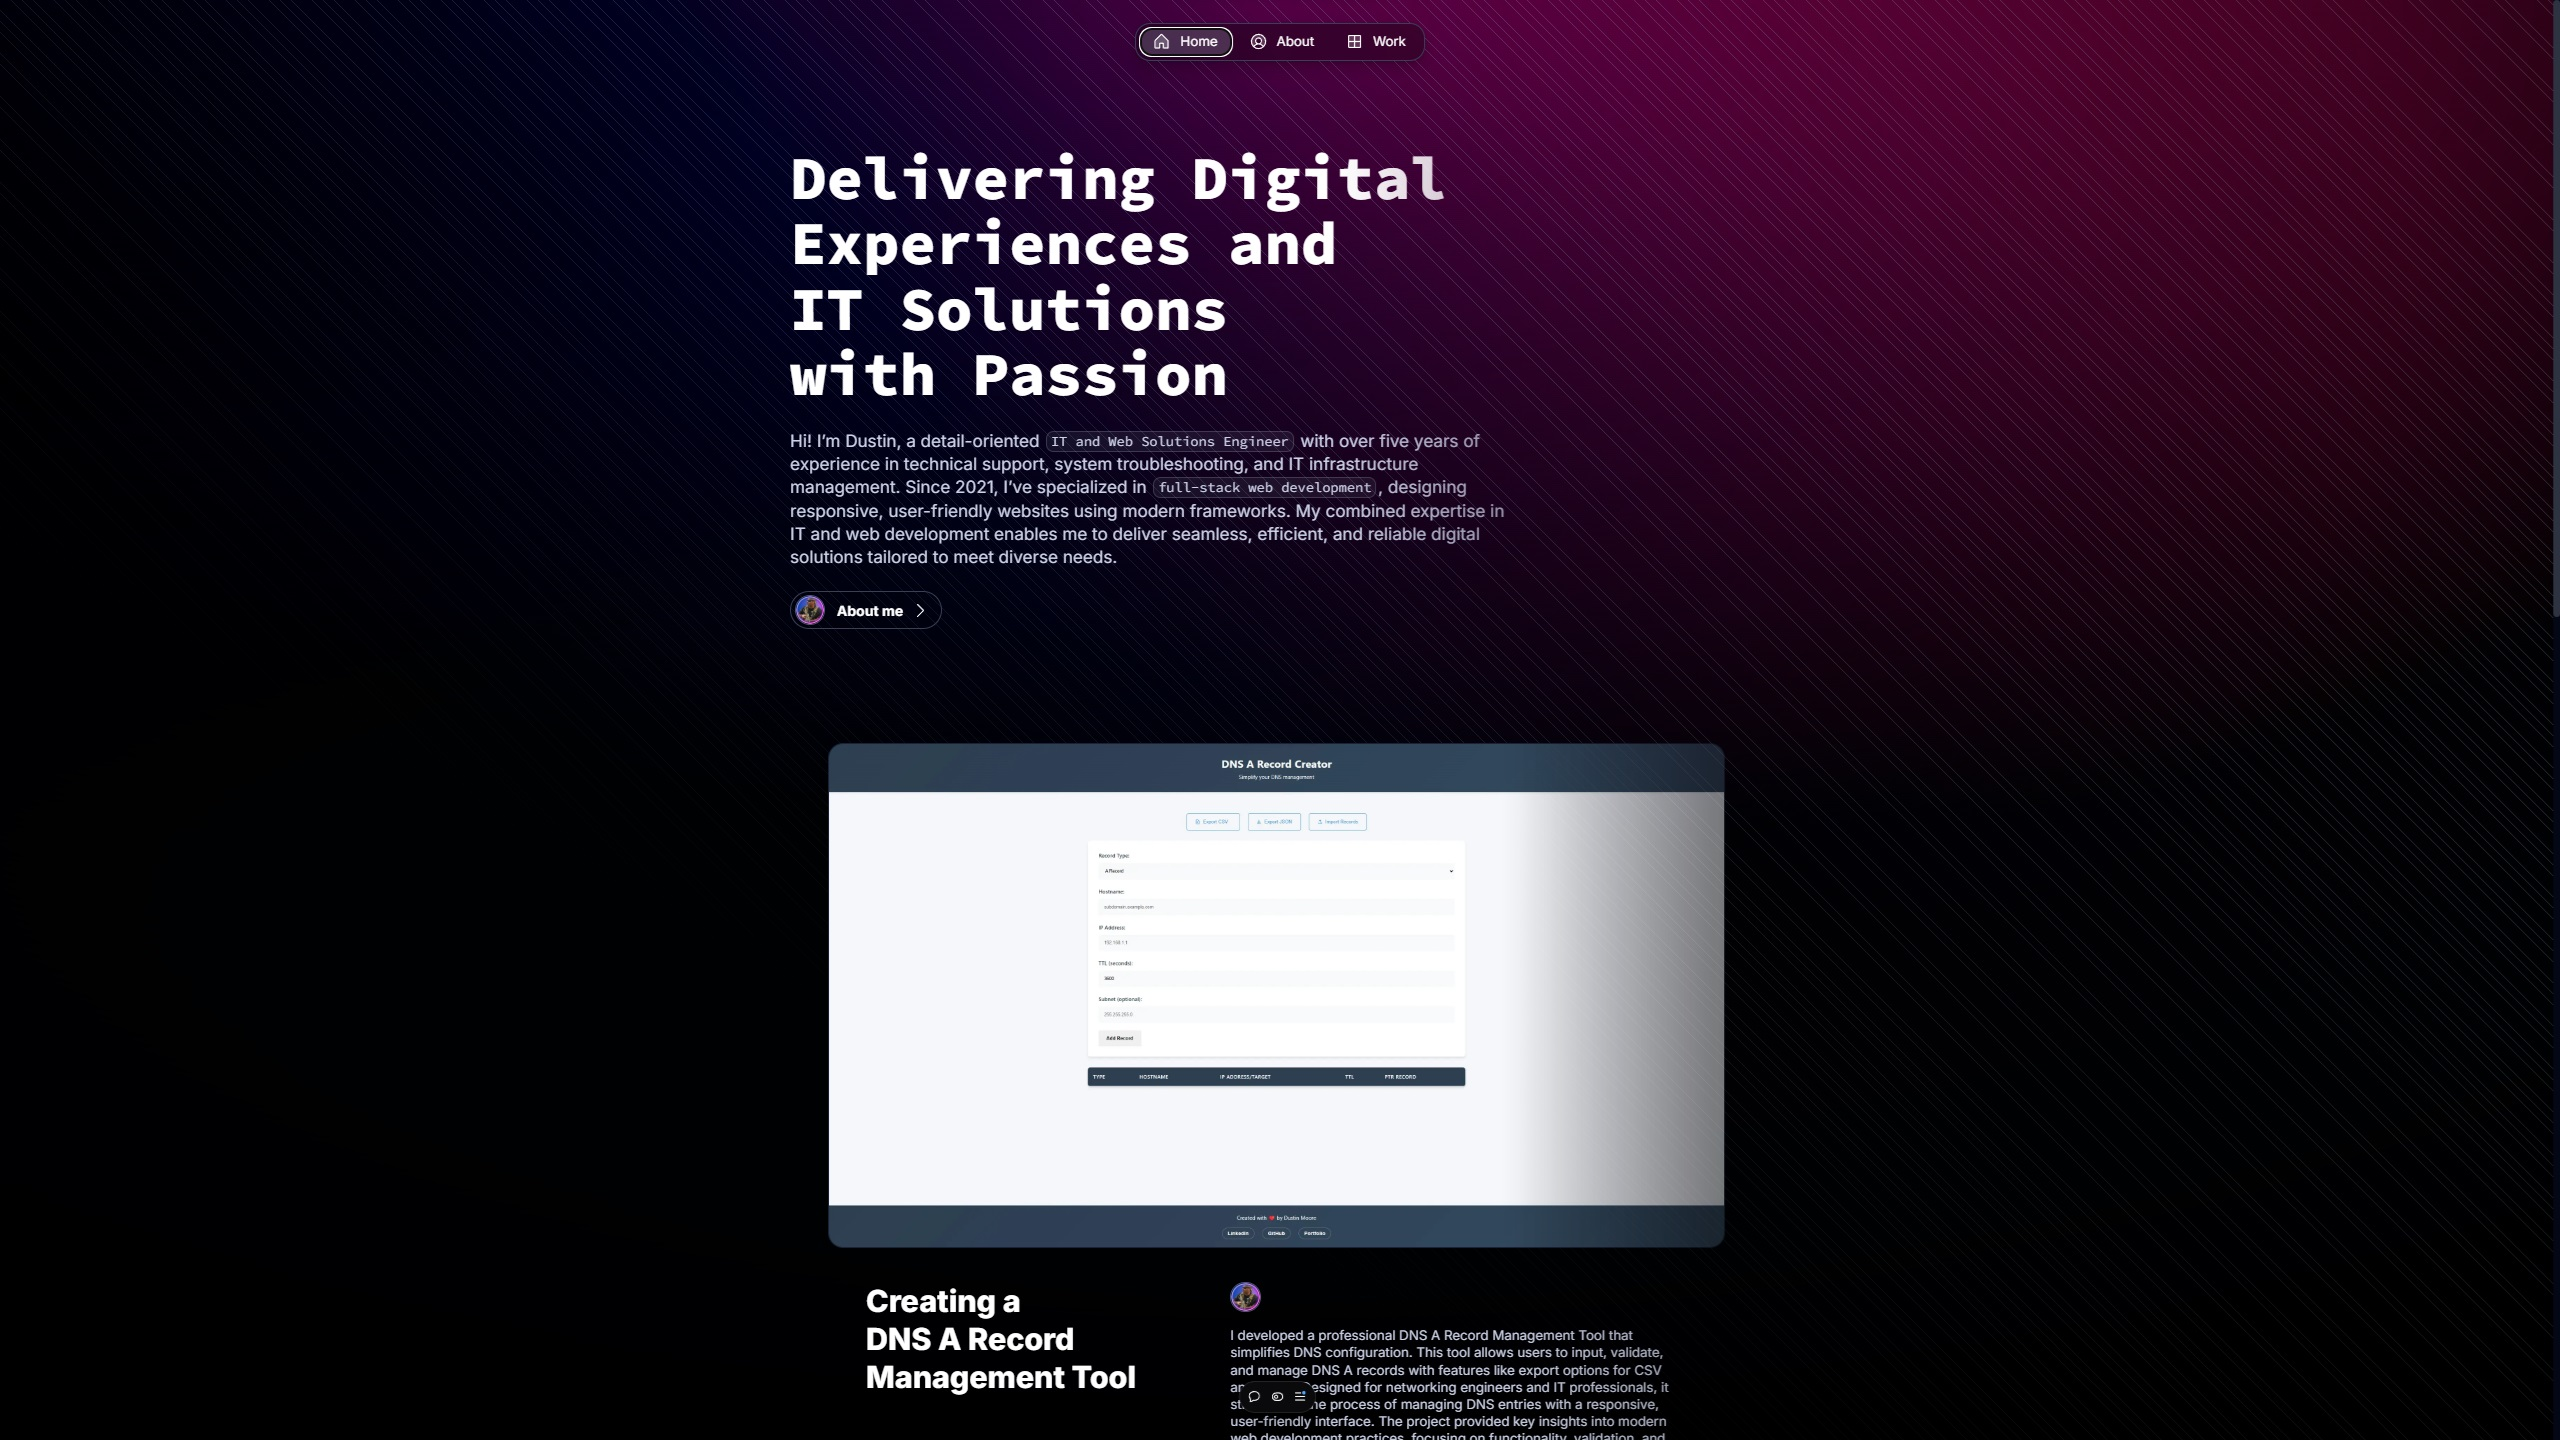
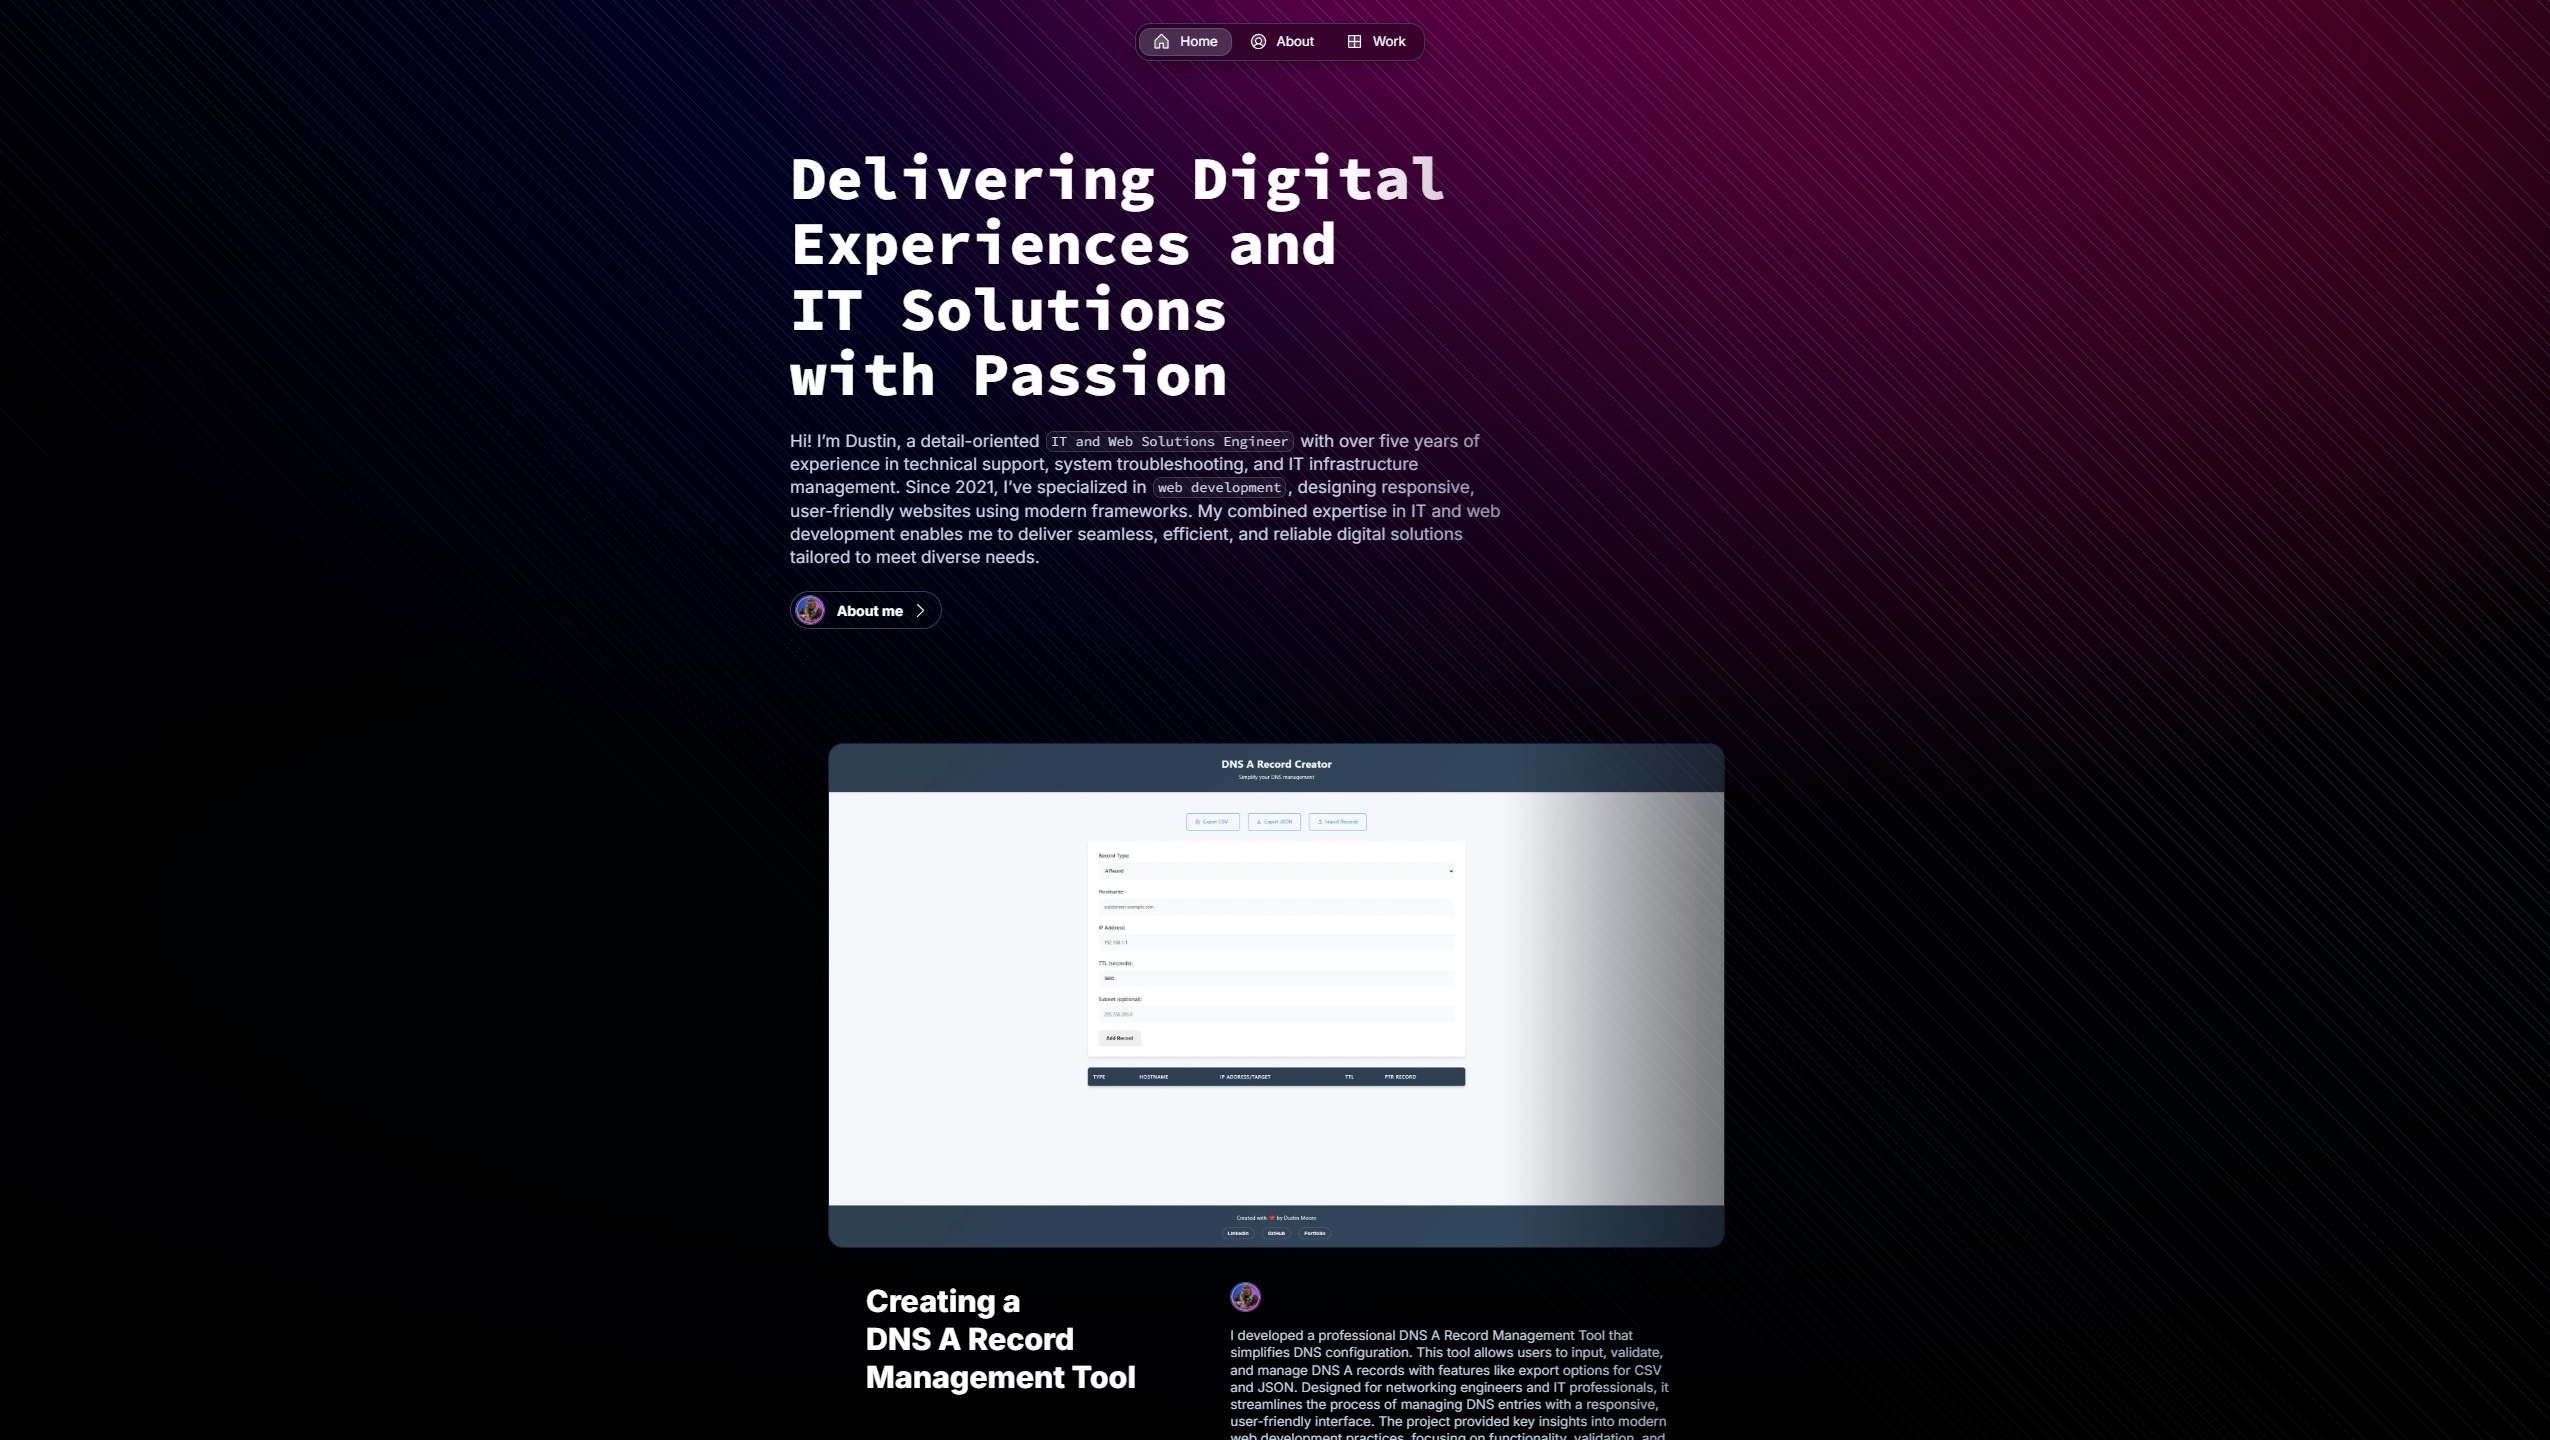
role edit and layout change

diff --git a/README.md b/README.md
@@ -15,7 +15,7 @@
 ---
 
 ## 🚀 About Me
-Hi! I’m Dustin, a detail-oriented IT and Web Solutions Engineer with over five years of experience in technical support, system troubleshooting, and IT infrastructure management. Since 2021, I’ve specialized in full-stack web development, designing responsive, user-friendly websites using modern frameworks. My combined expertise in IT and web development enables me to deliver seamless, efficient, and reliable digital solutions tailored to meet diverse needs.
+Hi! I’m Dustin, a detail-oriented IT and Web Solutions Engineer with over five years of experience in technical support, system troubleshooting, and IT infrastructure management. Since 2021, I’ve specialized in web development, designing responsive, user-friendly websites using modern frameworks. My combined expertise in IT and web development enables me to deliver seamless, efficient, and reliable digital solutions tailored to meet diverse needs.
 
 ---
 
@@ -45,17 +45,6 @@ Hi! I’m Dustin, a detail-oriented IT and Web Solutions Engineer with over five
   </div>
 </div>
     <p><a href="https://github.com/dustinmmoore/magic-portfolio">🔗 View Project</a></p>
-</div>
-<br><br>
-<div align="left">
-  <h3>Dynamic Business Website</h3>
-  <p>Kinetic Solutions LLC</p>
-  <div align="center">
-    <img src="./Assets/Images/ks1.jpg" alt="Portfolio Animation">
-  </div>
-</div>
-  <p><a href="https://github.com/dustinmmoore/kineticsolutionsllc">🔗 View Project</a></p>
-</div>
 <br><br>
 <div align="left">
   <h3>DNS A Record Creator</h3>
@@ -65,7 +54,6 @@ Hi! I’m Dustin, a detail-oriented IT and Web Solutions Engineer with over five
   </div>
 </div>
     <p><a href="https://github.com/dustinmmoore/a-record-creator">🔗 View Project</a></p>
-</div>
 <br><br>
 <div align="left">
   <h3>Tic Tac Toe with Party Mode</h3>
@@ -75,7 +63,15 @@ Hi! I’m Dustin, a detail-oriented IT and Web Solutions Engineer with over five
   </div>
 </div>
     <p><a href="https://github.com/dustinmmoore/tictactoe">🔗 View Project</a></p>
+<br><br>
+<div align="left">
+  <h3>Dynamic Business Website</h3>
+  <p>Kinetic Solutions LLC</p>
+  <div align="center">
+    <img src="./Assets/Images/ks1.jpg" alt="Portfolio Animation">
+  </div>
 </div>
+  <p><a href="https://github.com/dustinmmoore/kineticsolutionsllc">🔗 View Project</a></p>
 
 ---
 
